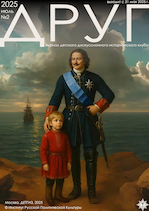
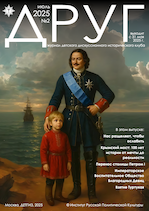
add issue 5, upd prior thumbnails

diff --git a/index.html b/index.html
@@ -73,6 +73,22 @@
       <td><img src="thumbnail/journal_friend_2025-08-4.png" alt="обложка август, №4" /></td>
     </tr>
   </tbody>
+  <thead>
+    <tr>
+      <th>сентябрь, №5</th>
+      <th></th>
+      <th></th>
+      <th></th>
+    </tr>
+  </thead>
+  <tbody>
+    <tr>
+      <td><img src="thumbnail/journal_friend_2025-09-5.png" alt="обложка сентябрь, №5" /></td>
+      <td></td>
+      <td></td>
+      <td></td>
+    </tr>
+  </tbody>
 </table>
 
 <h2 id="обратная-связь">Обратная связь</h2>
